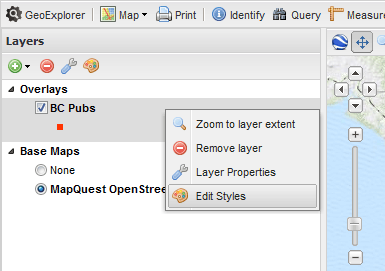
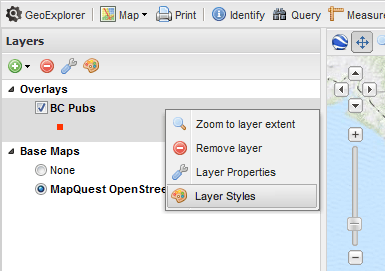
Minor updates to one graphic and some text to reflect changes in GUI (#SUITE-1240)

Changed region(s): [[0.4364, 0.679, 0.6857, 0.7675]]

diff --git a/docs/usermanual/source/webmaps/easypublish/style.rst b/docs/usermanual/source/webmaps/easypublish/style.rst
@@ -7,21 +7,21 @@ After uploading your data, the Styling menu will open. While a simple style has 
 
 .. warning:: All style changes will apply and persist on the server immediately. We recommend you make a backup of a style before making any changes.
 
-You can open the Styles dialog box at any time by clicking a layer in the Layer list and then clicking the Palette icon. Alternatively, right-click a layer and click :guilabel:`Edit Styles`.
+You can open the Styles dialog box at any time by clicking a layer in the Layer list and then clicking the Palette icon. Alternatively, right-click a layer and click :guilabel:`Layer Styles`.
 
 .. figure:: img/style_contextmenu.png
 
-   *Select this menu item to edit the layer style*
+   *Accessing the Layer Styles editor*
 
 To edit a style for a given layer:
 
-#. In the Styles menu you will see a default Style containing a single Rule. We'll leave the existing Style alone, but will create a duplicate where we will make edits. Click the :guilabel:`Duplicate` button underneath the Style name.
+#. In the Styles menu you will see a default Style containing a single Rule. To create a duplicate of this style for modification, click the :guilabel:`Duplicate` button.
 
 .. figure:: img/style_duplicatebutton.png
 
    *Duplicating the Style*
 
-#. A dialog box will appear for entering a new Title and Abstract. Enter this information and click :guilabel:`Save`.
+#. To avoid confusion with the original style, provide a new :guilabel:`Title` and :guilabel:`Abstract` description. Once you've entered this information, click :guilabel:`Save`.
 
    .. figure:: img/style_metadata.png
 
@@ -31,7 +31,7 @@ To edit a style for a given layer:
 
       *Click Save when done*
 
-#. Make sure the duplicated Style is selected in the :guilabel:`Choose style` dialog box.
+#. Make sure the duplicated Style is selected in the :guilabel:`Choose style` box.
 
    .. figure:: img/style_styleselect.png
 
@@ -61,7 +61,7 @@ To edit a style for a given layer:
 
       *A new style for the layer*
 
-#. Repeat this process for any layers that you wish to style. To edit styles for another layer, click the layer in the Layers Panel and then click the Palette icon, or right-click the layer and click :guilabel:`Edit Styles` as shown above.
+#. Repeat this process for any layers that you wish to style. To edit styles for another layer, click the layer in the Layers Panel and then click the Palette icon, or right-click the layer and click :guilabel:`Layer Styles` as shown above.
 
 .. note::  If you need a more customized or complex style than what is possible through GeoExplorer, you can code your own style. See the `Styling section <../../geoserver/styling/>`_ of the `GeoServer documentation <../../geoserver/>`_ for more information.
 

diff --git a/docs/usermanual/source/webmaps/easypublish/publish.rst b/docs/usermanual/source/webmaps/easypublish/publish.rst
@@ -20,7 +20,6 @@ Map composition
 #. Use the zoom and pan tools to set the default map view.
 
    .. figure:: img/publish_compose.png
-      :align: center
 
       *A finished map*
 
@@ -30,17 +29,15 @@ Save the map view
 
 You can save your map composition for later, to be accessed by a URL bookmark.
 
-#. Click the :guilabel:`Map` menu and click :guilabel:`Save Map` to display a URL.
+#. Click :guilabel:`Map` on the GeoExplorer toolbar and click :guilabel:`Save map` to generate a URL.
 
    .. figure:: img/publish_savemapbutton.png
-      :align: center
 
-      *The Save Map button will generate a URL*
+      *The Save map tool will generate a URL*
 
 #. When navigating to this URL at a later time, the map will return to this exact placement.
 
    .. figure:: img/publish_savemap.png
-      :align: center
 
       *Copy this URL to save your map*
 
@@ -50,24 +47,21 @@ Publish via embedded map
 
 GeoExplorer allows you to publish your map view by generating a small block of HTML code that can be embedded in any web page.
 
-#. Click the :guilabel:`Publish Map` icon.
+#. Click :guilabel:`Map` on the GeoExplorer toolbar and click :guilabel:`Publish map`.
 
    .. figure:: img/publish_publishmapbutton.png
-      :align: center
 
-      *The Publish Map button will generate HTML*
+      *The Publish map tool will generate HTML*
 
 #. Choose the tools you would like to have available in your embedded map:
 
    .. figure:: img/publish_tools.png
-      :align: center
 
       *Selecting the tools for the published map*
 
-#. A dialog box will show some HTML code that can be copied and included in a web page in order to embed the map. You can change the values for the map size in the :guilabel:`Map Size` drop down boxes, or by changing the :guilabel:`Height` and :guilabel:`Width` values. The changes will automatically be reflected in the HTML.
+#. A dialog box will show some HTML code that can be copied and included in a web page in order to embed the map. You can change the values for the map size in the :guilabel:`Map Size` list, or by changing the :guilabel:`Height` and :guilabel:`Width` values. The changes will automatically be reflected in the HTML.
 
    .. figure:: img/publish_html.png
-      :align: center
 
       *HTML for embedding a map*
 

diff --git a/docs/usermanual/source/webmaps/easypublish/load.rst b/docs/usermanual/source/webmaps/easypublish/load.rst
@@ -15,11 +15,11 @@ The first step is to load data into the OpenGeo Suite. These are many tools and 
 
       *GeoExplorer*
 
-#. Click the :guilabel:`Add Layers` button (green circle with the white plus) on the top left of the screen, and then click :guilabel:`Upload Layers`.
+#. Click :guilabel:`Add layers` on the :guilabel:`Layers` panel toolbar, and then click :guilabel:`Upload layers`.
 
    .. figure:: img/load_uploadmenu.png
 
-      *Click this menu item to access the Upload Layers dialog box*
+      *Uploading layers*
 
 #. For security reasons, you will be asked to log in. Enter the administrative user name and password for GeoServer. The default is ``admin`` / ``geoserver``.
 
@@ -83,19 +83,19 @@ Optional: Adding hosted base layers
 
 GeoExplorer displays a default base layer (`MapQuest OpenStreetMap <http://open.mapquest.com/>`_) but many others are available. To select another base layer:
 
-#. Click the :guilabel:`Add Layers` button (green circle with the white plus) on the top left of the screen, and then click :guilabel:`Add Layers`.
+#. Click the :guilabel:`Add layers` on the :guilabel:`Layers` panel toolbar, and then click :guilabel:`Add layers`.
 
    .. figure:: img/load_addlayers.png
 
       *Adding layers*
 
-#. In the :guilabel:`View available data from` dialog box, select an alternate data source, such as :guilabel:`Google Layers` or :guilabel:`MapBox Layers`.
+#. In the :guilabel:`View available data from` list, select an alternate data source, such as :guilabel:`Google Layers` or :guilabel:`MapBox Layers`.
 
    .. figure:: img/load_hostedlayersource.png
 
       *Hosted layer sources*
 
-#. A list of hosted layers will be shown. Click the layer you would like to add as a base layer, and click :guilabel:`Add Layers`.
+#. A list of hosted layers will be shown. Click the layer you would like to add as a base layer, and click :guilabel:`Add layers`.
 
    .. figure:: img/load_hostedlayer.png
 
